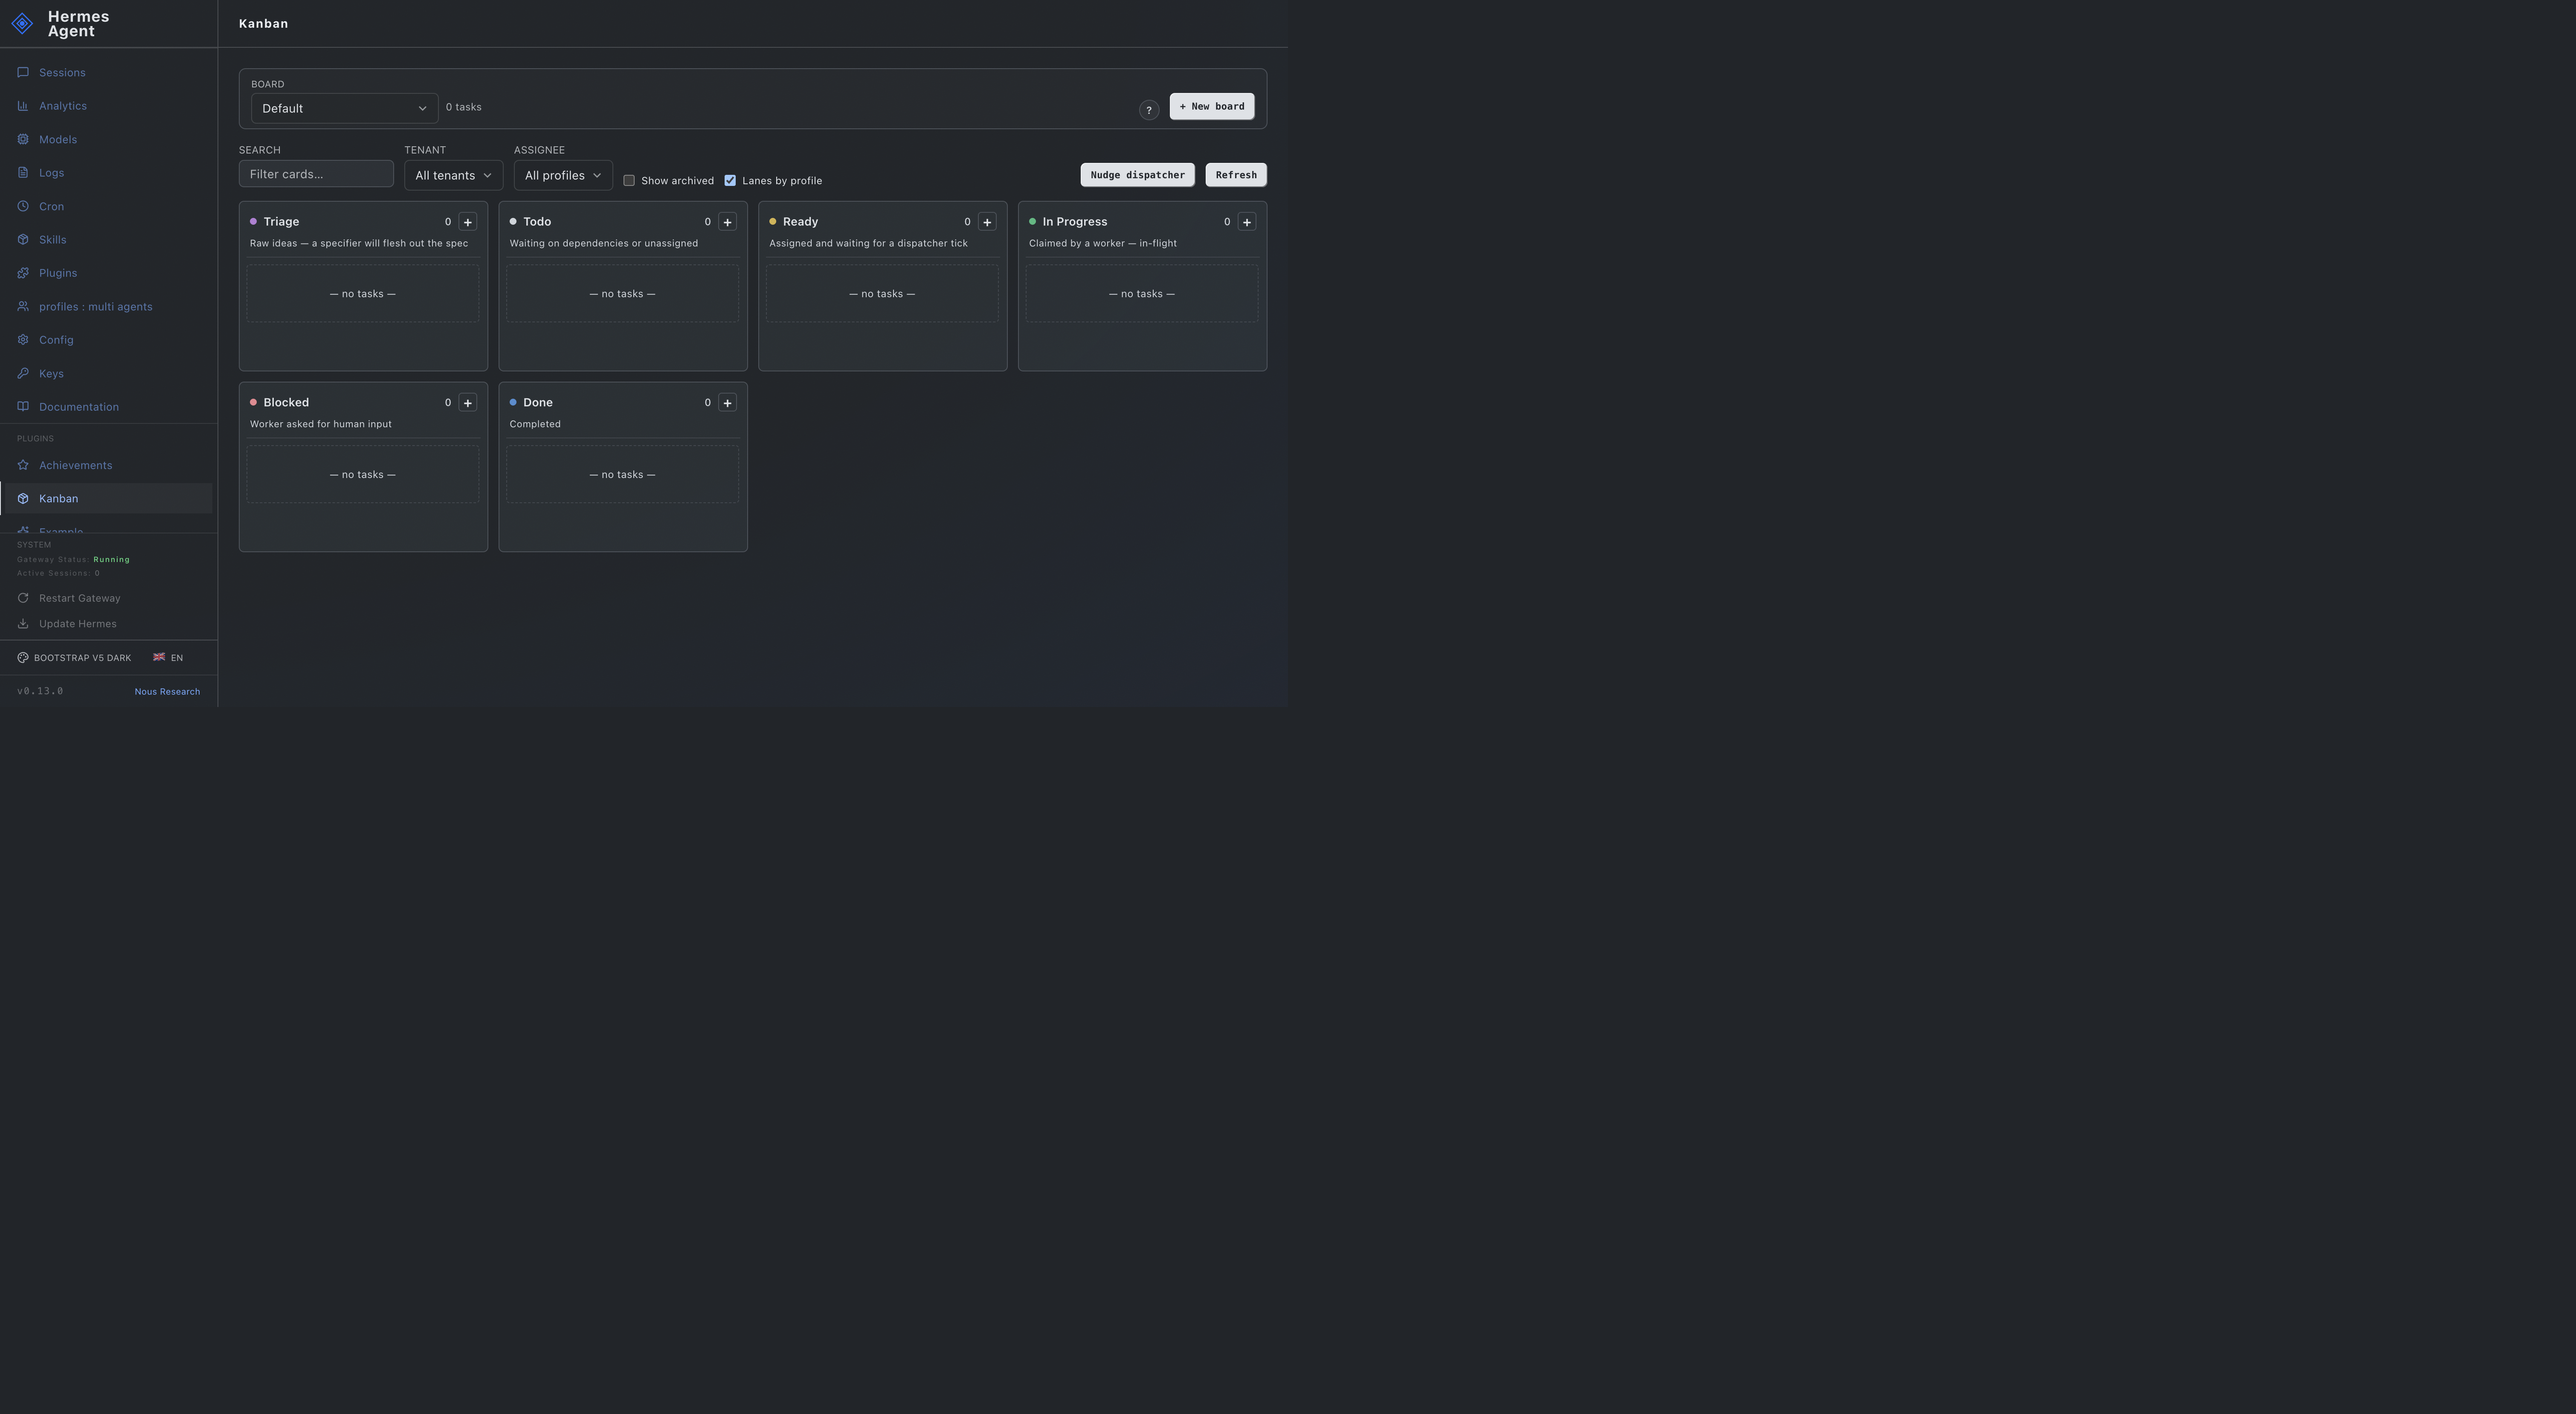
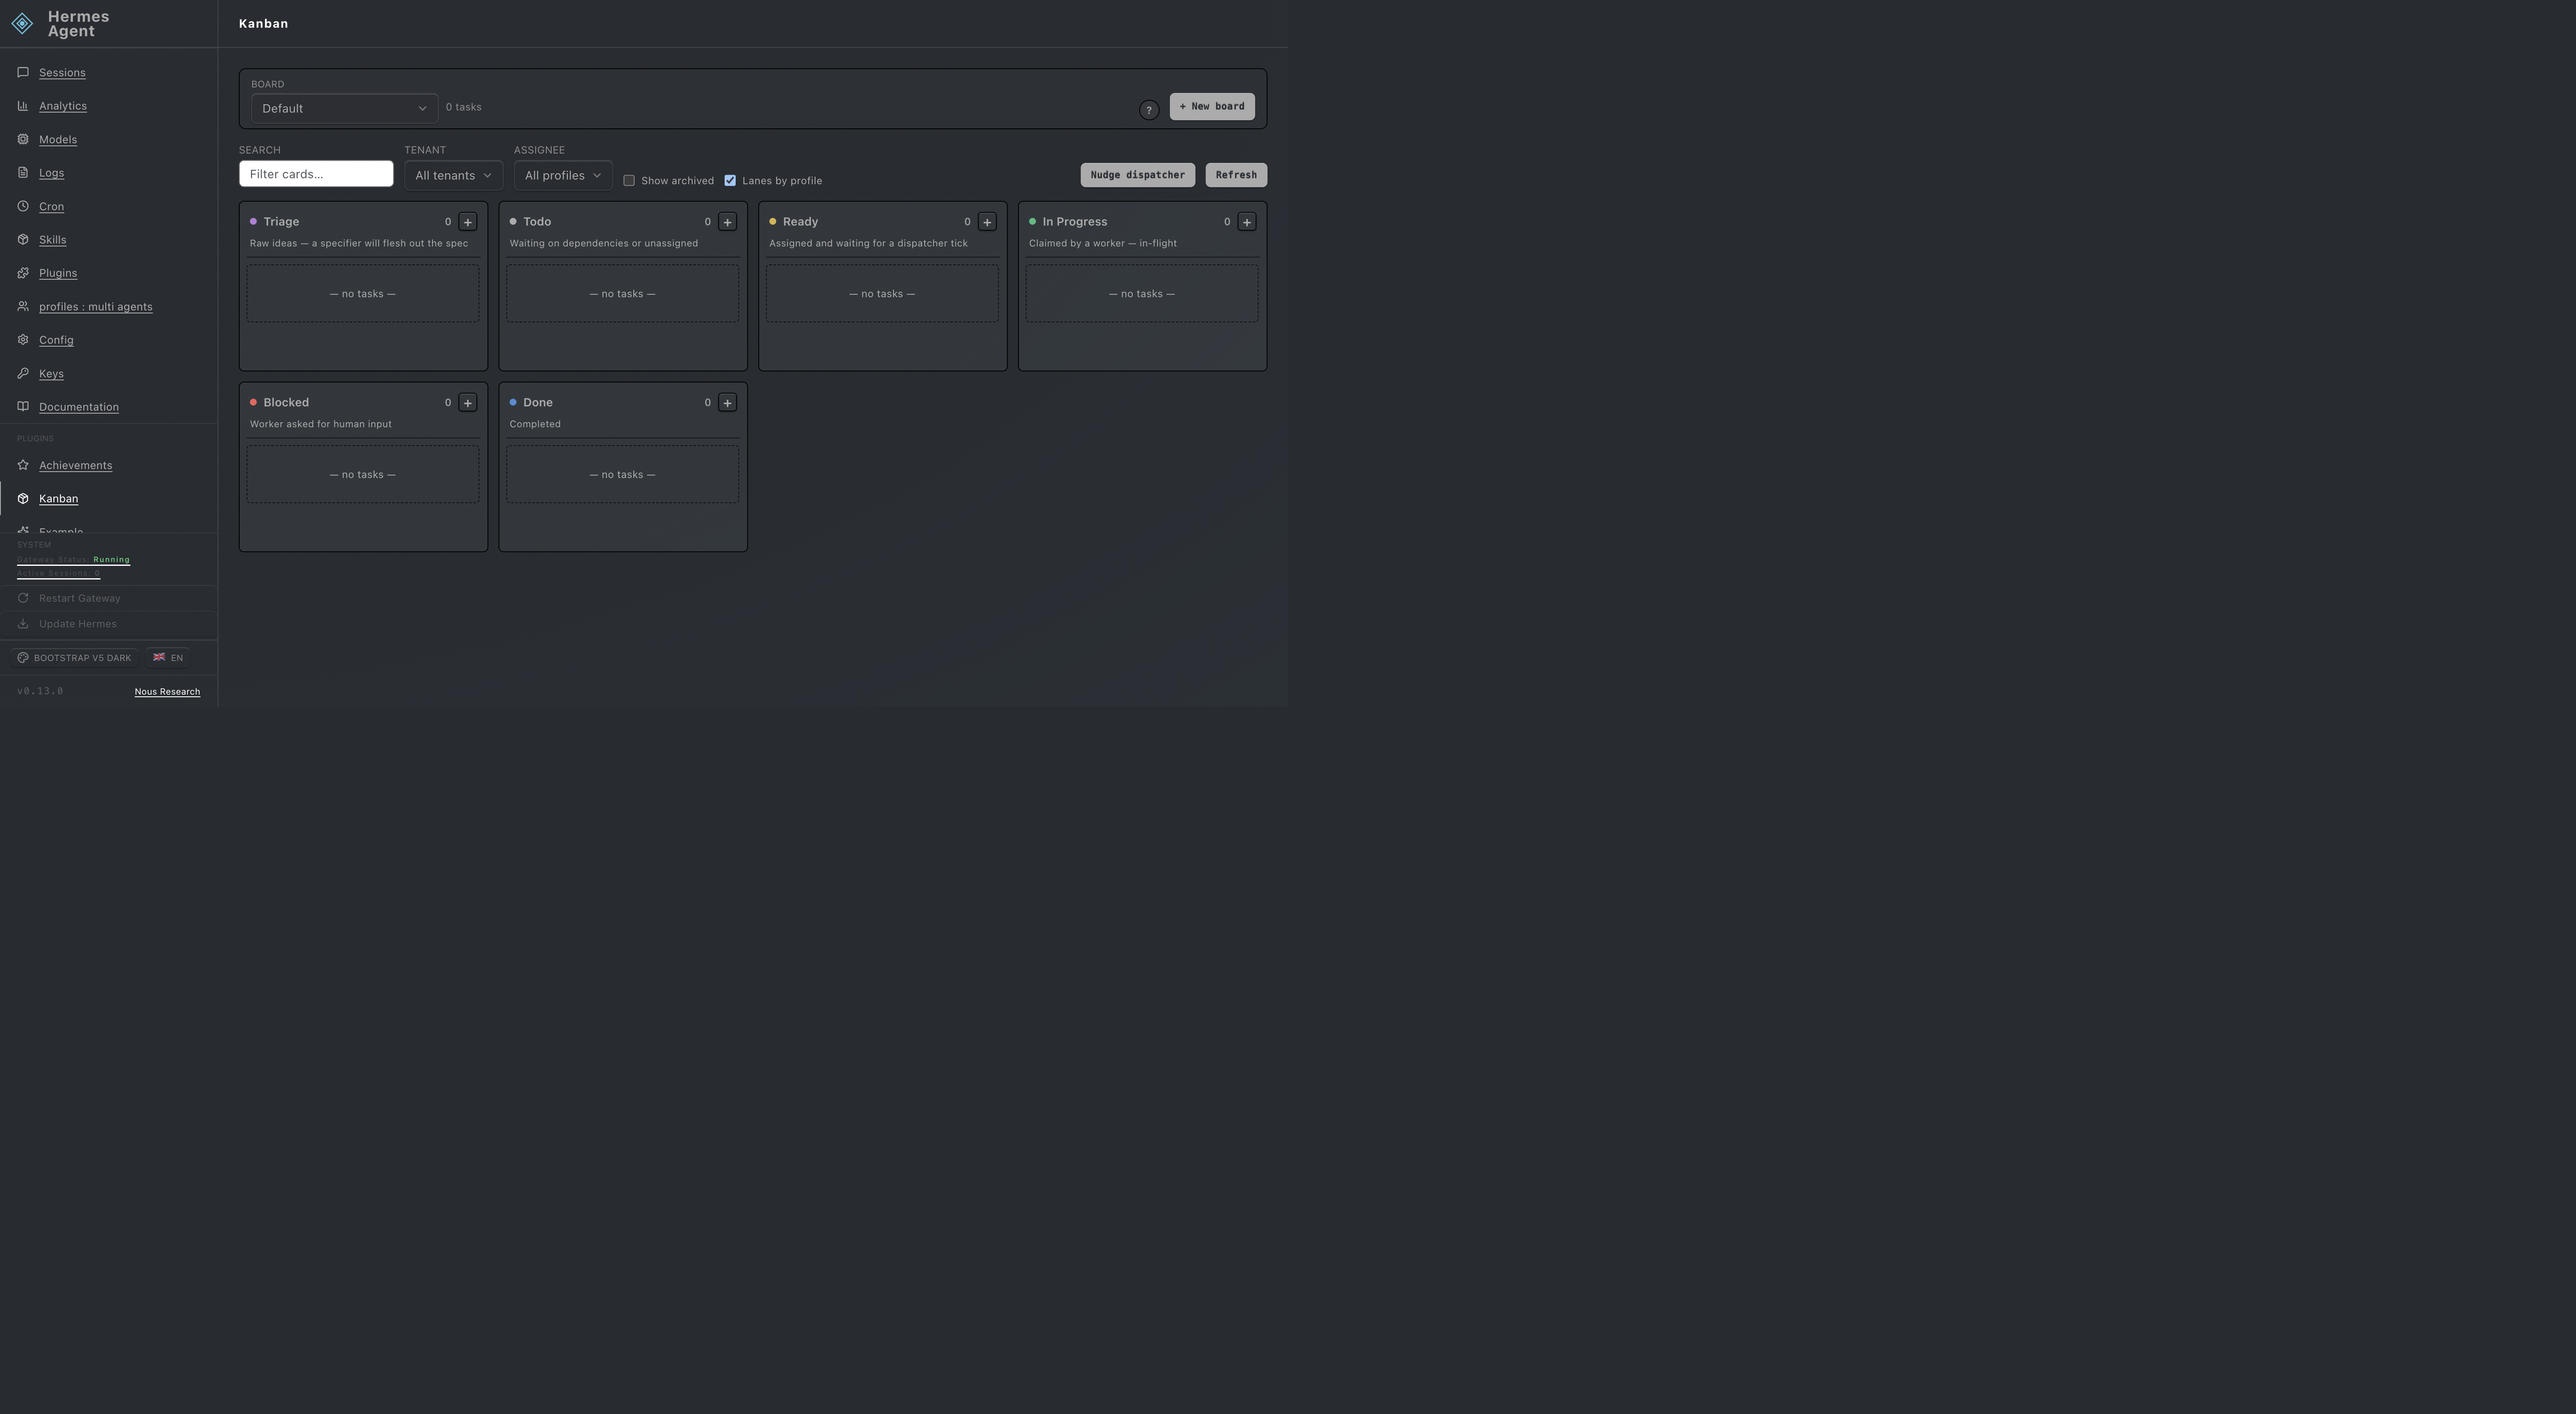
feat: align dark theme with bootswatch slate

diff --git a/README.md b/README.md
@@ -7,7 +7,7 @@ This pack keeps Hermes' dashboard portable and local-first while making the UI f
 ## Themes
 
 - `bootstrap-v5-light.yaml` — clean Bootstrap light mode with white cards, Bootstrap blue accents, and low-noise background treatment.
-- `bootstrap-v5-dark.yaml` — Bootstrap 5.3 dark-mode palette with improved contrast for cards, forms, links, badges, and code-heavy views.
+- `bootstrap-v5-dark.yaml` — Bootswatch Slate-inspired dark mode with graphite surfaces, white links, gray body text, Slate component colors, and Bootstrap-style high-contrast inputs.
 
 ## Install
 
@@ -74,6 +74,7 @@ Recommended release QA coverage:
 
 ## Design notes
 
+- The dark theme is inspired by [Bootswatch Slate](https://bootswatch.com/slate/) v5.3.8 and its public source in [thomaspark/bootswatch](https://github.com/thomaspark/bootswatch/tree/v5/dist/slate).
 - Colors track Bootstrap 5.3 defaults where Hermes' theme schema allows it.
 - Typography uses Bootstrap's native system font stack.
 - The pack intentionally relaxes Hermes' stylized all-uppercase terminal look for better daily readability.

diff --git a/CHANGELOG.md b/CHANGELOG.md
@@ -1,5 +1,13 @@
 # Changelog
 
+## 0.1.1 - 2026-05-15
+
+Updated Bootstrap v5 Dark to a Bootswatch Slate-inspired palette.
+
+- Matched Slate v5.3.8 core tokens from https://bootswatch.com/slate/ and https://github.com/thomaspark/bootswatch/tree/v5/dist/slate.
+- Reworked dark theme colors around Slate graphite body `#272b30`, card surface `#32383e`, primary `#3a3f44`, secondary `#7a8288`, info `#5bc0de`, success `#62c462`, warning `#f89406`, danger `#ee5f5b`, white links, and soft gray body text.
+- Added Slate-like card/header shadows, borders, white Bootstrap-style inputs, and refreshed Sessions/Kanban screenshots.
+
 ## 0.1.0 - 2026-05-15
 
 Initial public-review theme pack.
